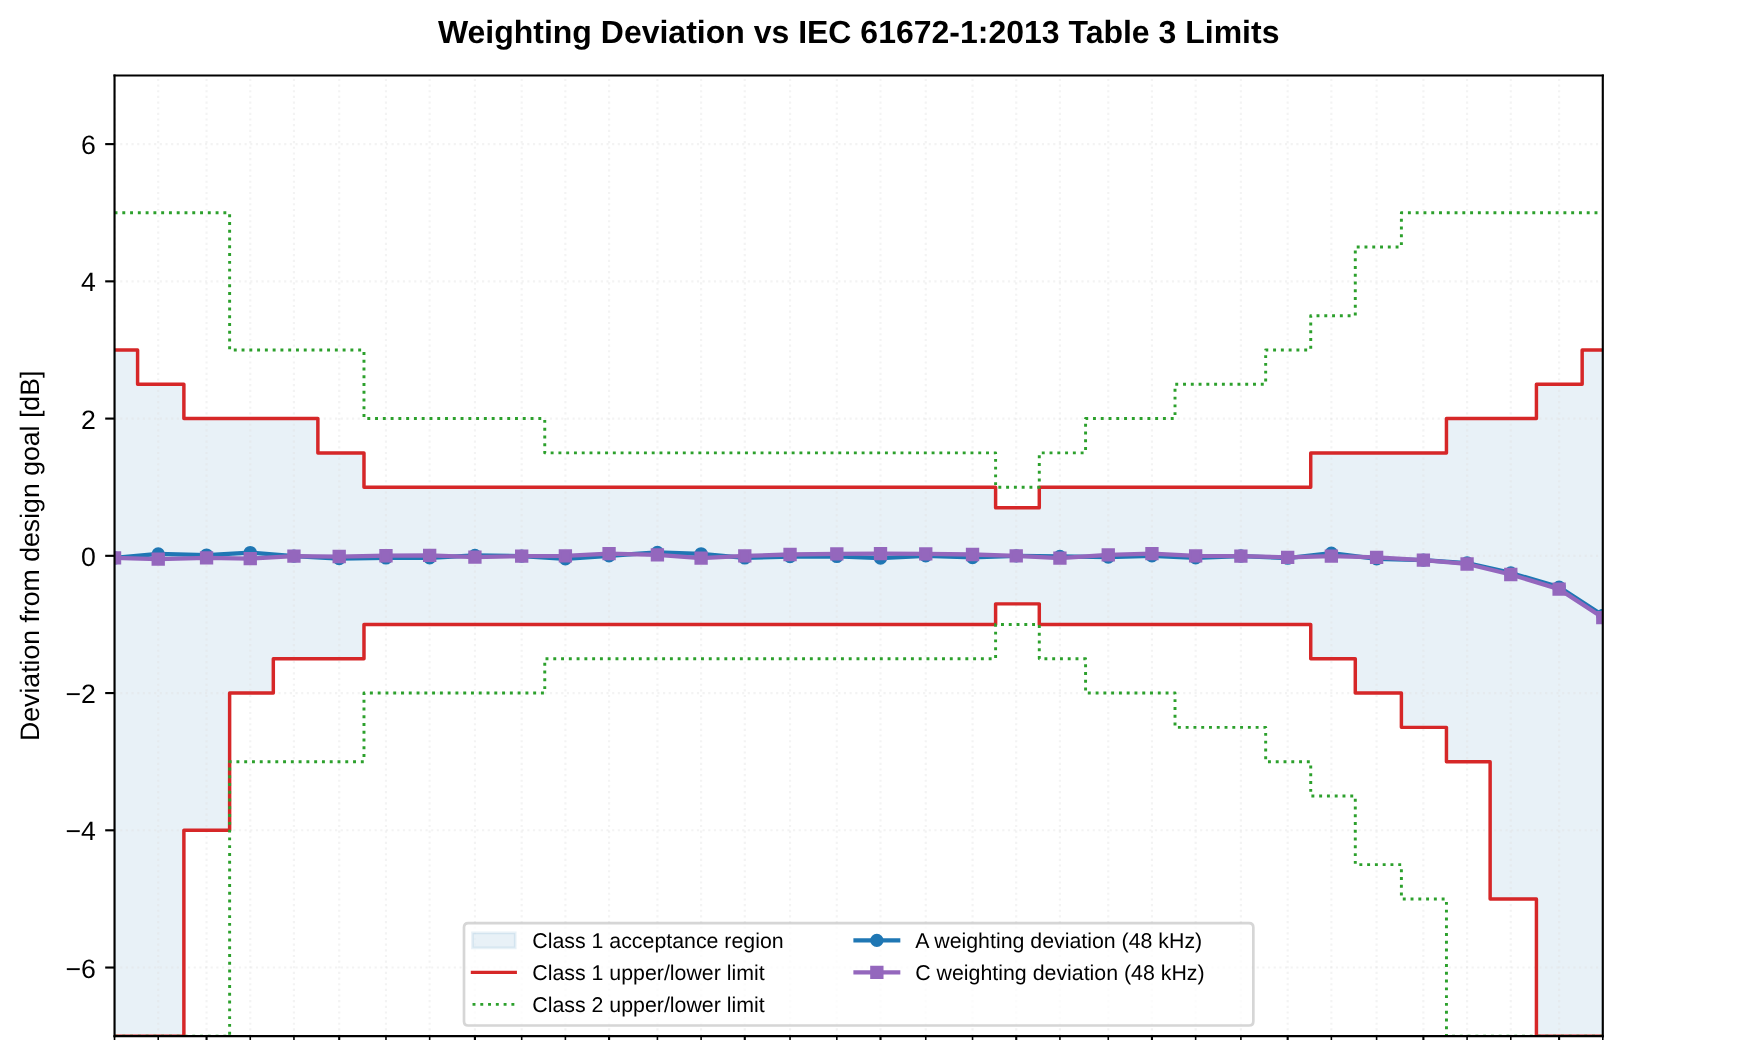
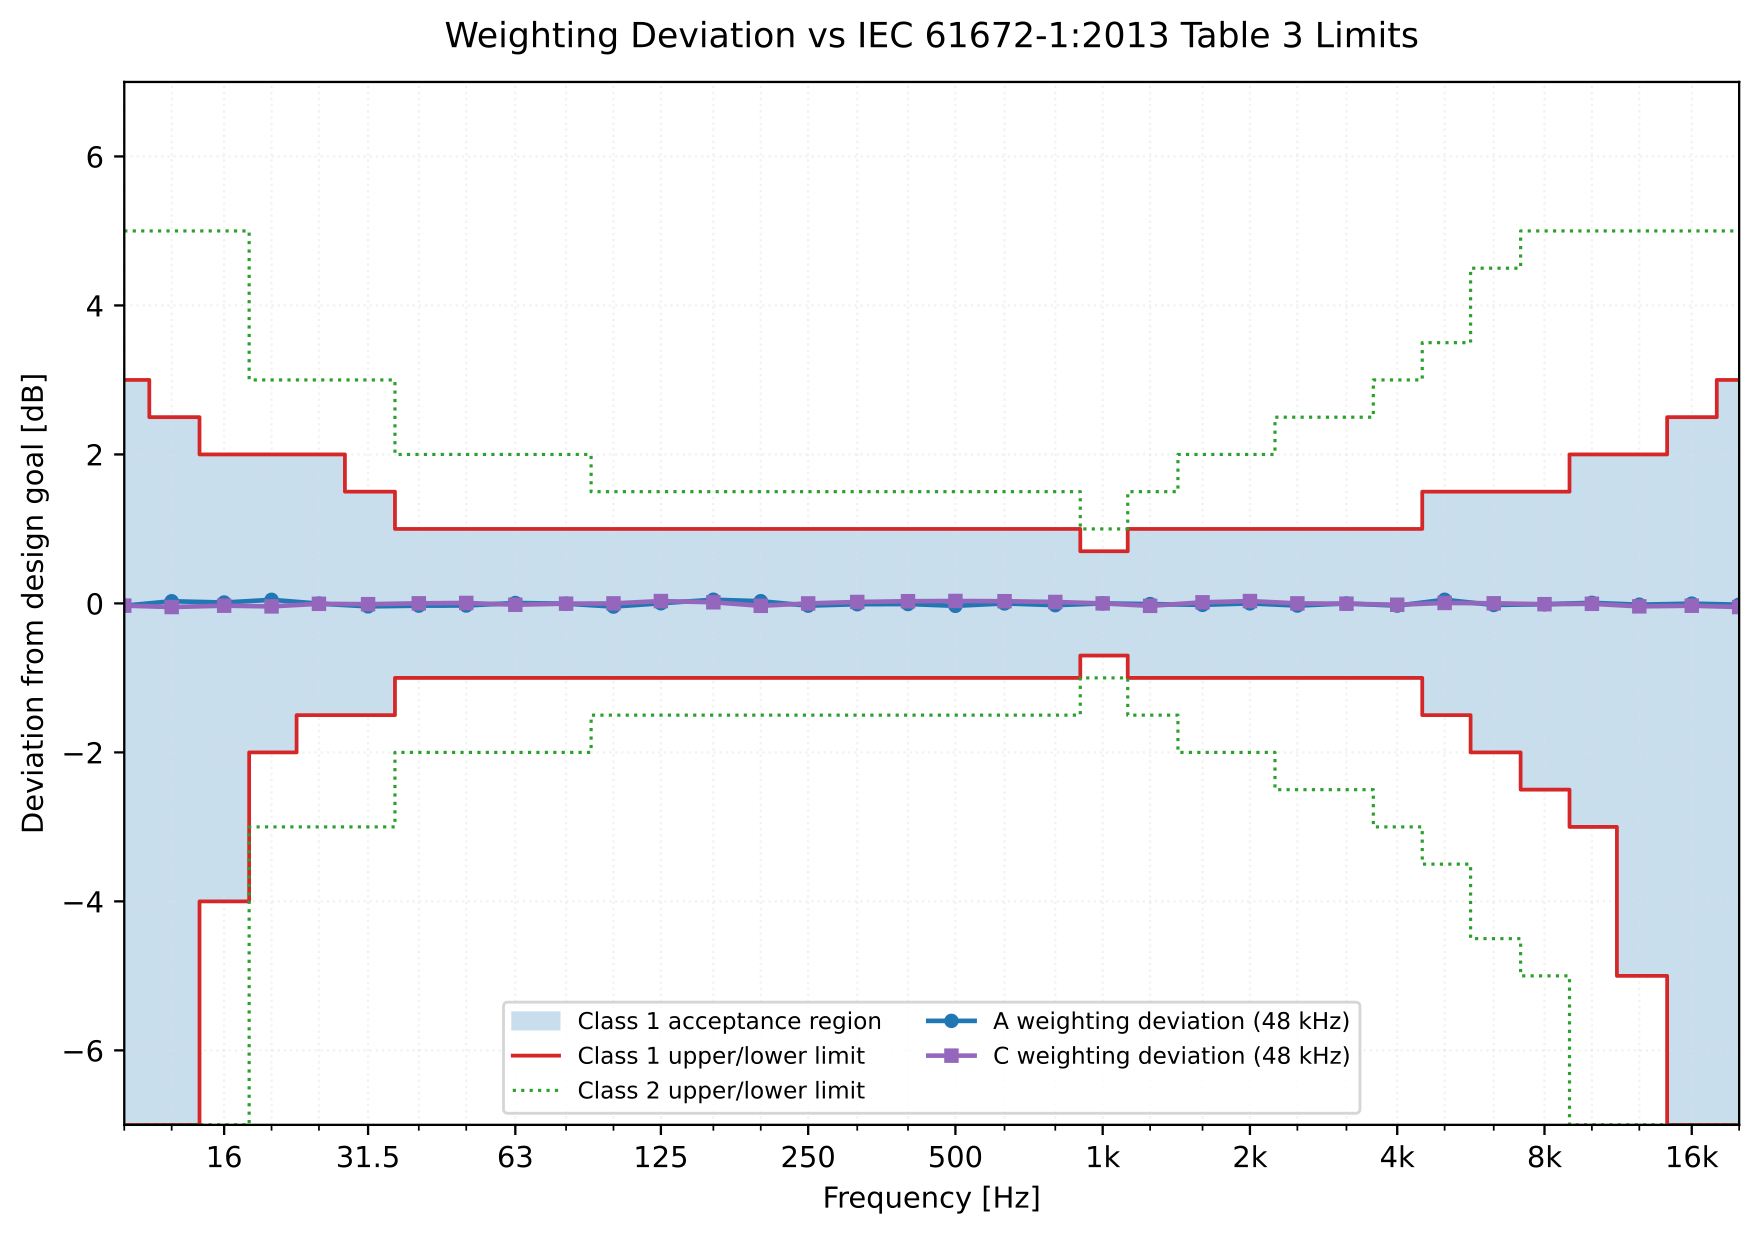
The paper describes phonometry 4.0.0 (#1150)
* The paper describes phonometry 4.0.0

The counts are the 4.0.0 conformance report's: 1899 checks across 111
domains, against 230 normative designations and 121 further published
sources. The layout paragraph names the twenty-one domain namespaces a
function is reached through, now that the flat import is gone, and the
result paragraph says which returns are records: several quantities or a
judgment, while a single number stays a number. The summary lists the
domains added since the draft, the research impact names acoustic-toolbox,
the maintained continuation of python-acoustics, which depends on
PyOctaveBand, and the weighting figure is drawn again from the current
design, whole, with its frequency axis.

* The paper claims only what every result and every check holds

A model with no governing standard is implemented from its primary
published source, and the conformance report is described by its
columns, so a check whose reference is an article is not called
normative. A result keeps the axes and parameters its numbers depend
on rather than every argument it was given, and nearly every result
draws a figure: 301 of the 324 public result records have plot().

* The paper promises a report only where the standard defines one

A result keeps the parameters its numbers depend on, not always the
axis they are indexed by (an airborne insulation result carries no band
axis of its own), and the summary limits report() to metrics whose
[…]

diff --git a/paper/paper.md b/paper/paper.md
@@ -17,7 +17,7 @@ authors:
 affiliations:
   - name: Independent researcher, València, Spain
     index: 1
-date: 27 July 2026
+date: 17 November 2026
 bibliography: paper.bib
 ---
 
@@ -26,30 +26,33 @@ bibliography: paper.bib
 `phonometry` is a pure-Python library, built on NumPy [@harris2020array] and
 SciPy [@virtanen2020scipy], for acoustic measurement, analysis and prediction.
 It covers sound level metrology, fractional-octave filtering, psychoacoustics,
-room and building acoustics, acoustic materials, human vibration, environmental
-and transport noise, underwater acoustics, electroacoustics and wave
-simulation. Every result is a typed, frozen dataclass that carries the inputs
-it was computed from, draws its own figure, and, for the metrics that certify
-or rate something, renders an accredited-style report.
+speech intelligibility and hearing, room and building acoustics, acoustic
+materials, sound power, human and structural vibration, environmental,
+aircraft and transport noise, underwater acoustics, electroacoustics,
+broadcast loudness and wave simulation. A result that holds more than one
+quantity is a typed, frozen dataclass that keeps its numbers together with the
+key parameters behind them, nearly always draws its own figure, and, for the
+metrics whose standards define a reporting format, renders an accredited-style
+report.
 
 What distinguishes the library is not the breadth of that list but how each
-entry on it is built and verified. Every metric is implemented from the text of
-its governing standard, clause by clause, rather than from a secondary
+entry on it is built and verified. Every standardized metric is implemented
+from the text of its governing standard, clause by clause, and every other
+model from its primary published source, rather than from a secondary
 description or another implementation. Where a standard publishes worked
 examples, tolerance tables or nominal responses, those numbers are transcribed
 into the test suite as oracles: the IEC 61672-1 weighting tolerances
 [@iec61672], the IEC 61260-1 filter class limits [@iec61260], the ISO 532-1
 loudness test signals [@iso532], the ISO 717 rating examples [@iso717], and
-hundreds more. At the time of writing, continuous integration enforces 533
-numerical conformance checks across 57 domains against 362 referenced
-standards on every change, and the per-check report (standard and clause,
-normative expected value, computed value, delta, verdict) is published with
-the documentation
+hundreds more. In release 4.0.0, continuous integration enforces 1899
+numerical conformance checks across 111 domains, against 230 normative
+designations and 121 further published sources, on every change, and the
+per-check report (source and clause, expected value, computed value, delta,
+verdict) is published with the documentation
 (<https://docs.jmrp.io/phonometry/reference/conformance/>), alongside a
 bibliography of every source the guides cite, standards included with their
-catalogue records
-(<https://docs.jmrp.io/phonometry/reference/bibliography/>). A
-regression that moves a computed value outside a standard's acceptance limit
+catalogue records (<https://docs.jmrp.io/phonometry/reference/bibliography/>).
+A regression that moves a computed value outside a standard's acceptance limit
 fails the build, so the conformance claim cannot silently stop being true
 between releases. \autoref{fig:mask} shows one such check as the user sees it:
 the realized A and C frequency weightings against the class limits of
@@ -106,24 +109,25 @@ off when it is systematic, across every metric a library ships and enforced in
 its own continuous integration, and none of the existing projects is
 structured around that contract. What no library in this space publishes is
 conformance evidence that is complete (every shipped metric), granular (per
-check, with the normative expected value and the delta) and live (regenerated
-and enforced on every change), so that the verification cannot drift from the
-code it describes. That is the niche `phonometry` occupies; for
-signal-processing foundations it happily coexists with `pyfar`.
+check, with the expected value and the delta) and live (regenerated and
+enforced on every change), so that the verification cannot drift from the code
+it describes. That is the niche `phonometry` occupies; for signal-processing
+foundations it happily coexists with `pyfar`.
 
 # Software design
 
-Three design decisions carry the method. First, every computation returns a
-typed, frozen dataclass rather than a bare array: the result object carries
-the inputs and parameters it was computed from, exposes a `plot()` method that
-draws the conventional figure for that quantity, and, for metrics whose
-standards define a reporting format (insulation ratings, absorption classes,
-declared noise emission), a `report()` method that renders an
+Three design decisions carry the method. First, a computation that yields
+several quantities, or a judgment against a limit, returns a typed, frozen
+dataclass rather than a tuple, a bare array or a bare boolean, while a single
+number stays a number: the result object keeps its numbers together with the
+key parameters behind them, nearly every result exposes a `plot()` method that
+draws the conventional figure for that quantity, and the results of metrics
+whose standards define a reporting format (insulation ratings, absorption
+classes, declared noise emission) add a `report()` method that renders an
 accredited-laboratory-style fiche citing the governing clauses
-(\autoref{fig:fiche}). The trade-off is verbosity against provenance: a
-frozen result is a self-documenting evidence trail, which is what a
-defensible number needs, at the cost of one attribute access compared with
-returning arrays.
+(\autoref{fig:fiche}). The trade-off is verbosity against provenance: a frozen
+result is a self-documenting evidence trail, which is what a defensible number
+needs, at the cost of one attribute access compared with returning arrays.
 
 ![The `report()` method of an airborne insulation result: a single-page fiche
 in the layout of an accredited laboratory report, stating the measured curve,
@@ -144,29 +148,33 @@ test expectations, and the published conformance report is generated from the
 same run that gates merges. The alternative, a hand-maintained validation
 report, was rejected because it can silently drift from the code; here the
 report cannot exist in a state the tests did not produce. The library is
-organised in eighteen domain namespaces over a flat API that remains importable
-directly, and the documentation, in English and Spanish, pairs every metric
-with a guide that teaches the method and a reference page that cites the
-exact clauses and formula numbers implemented; machine-readable copies of
-every page are published alongside the rendered site.
+organised in twenty-one domain namespaces, and a function is reached through
+the one that owns it (`building.airborne_insulation`,
+`underwater.propagation_loss`), so the call site names its domain and two
+domains can each hold a quantity of the same name. The documentation, in
+English and Spanish, pairs every metric with a guide that teaches the method
+and a reference page that cites the exact clauses and formula numbers
+implemented; machine-readable copies of every page are published alongside the
+rendered site.
 
 # Research impact statement
 
 The library has seen research use under its previous name, `PyOctaveBand`,
 released in 2020 and downloaded and integrated by third parties since; a
 published example is the DNN-based hearing-aid processing line of work of
-@drakopoulos2023, whose released models use it for octave-band analysis. A
-second, distinctive form of impact runs in the other direction: re-deriving
-formulas and recomputing worked examples from the source documents has
-surfaced defects in the published standards themselves (misprints, worked
-examples that contradict their own normative clauses, broken
-cross-references). Each confirmed case is documented in a public errata
-registry with the evidence, the reading the library implements, and whether
-it has been reported to the issuing body, so the verification work feeds back
-into the standards it verifies. The per-check conformance report also gives
-researchers a citable, reproducible baseline: a paper comparing a new loudness
-or insulation model against `phonometry` can point to the exact normative
-checks its baseline passes.
+@drakopoulos2023, whose released models use it for octave-band analysis, and
+`acoustic-toolbox` [@acoustictoolbox], the maintained continuation of
+`python-acoustics`, declares it as a dependency. A second, distinctive form of
+impact runs in the other direction: re-deriving formulas and recomputing
+worked examples from the source documents has surfaced defects in the
+published standards themselves (misprints, worked examples that contradict
+their own normative clauses, broken cross-references). Each confirmed case is
+documented in a public errata registry with the evidence, the reading the
+library implements, and whether it has been reported to the issuing body, so
+the verification work feeds back into the standards it verifies. The per-check
+conformance report also gives researchers a citable, reproducible baseline: a
+paper comparing a new loudness or insulation model against `phonometry` can
+point to the exact normative checks its baseline passes.
 
 # AI usage disclosure
 
